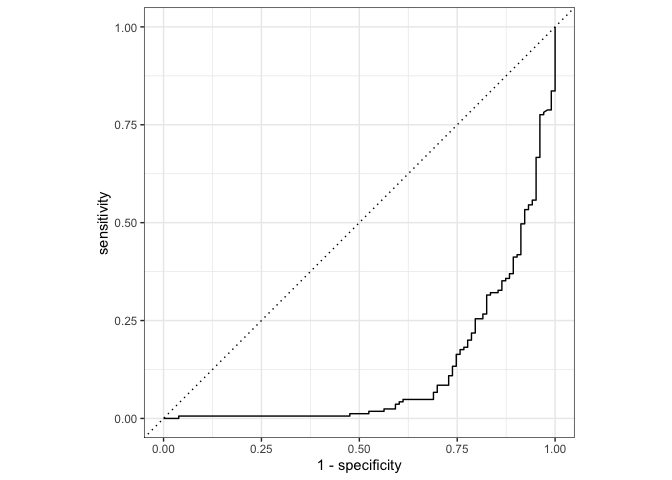
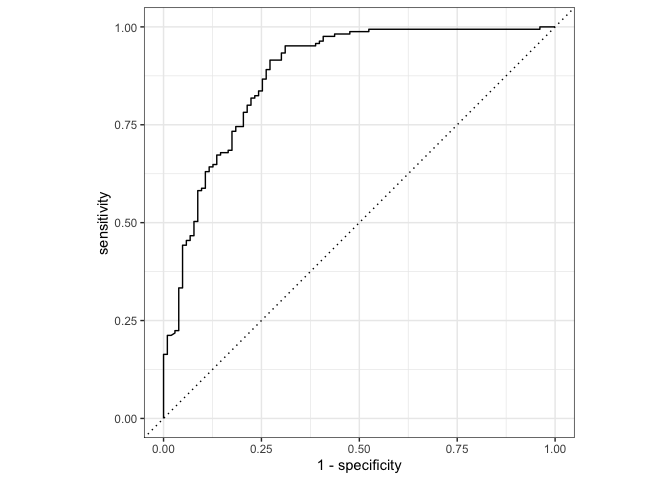
finalized

diff --git a/131_HW3.md b/131_HW3.md
@@ -276,7 +276,7 @@ augment(log_fit, new_data = titanic_test) %>%
 
 ``` r
 augment(log_fit, new_data = titanic_test) %>%
-  roc_curve(survived, .pred_Yes) %>%
+  roc_curve(survived, .pred_No) %>%
   autoplot()
 ```
 
@@ -284,4 +284,23 @@ augment(log_fit, new_data = titanic_test) %>%
 
 ``` r
 # calculate AUC
+roc <- augment(log_fit, new_data = titanic_test) %>%
+  roc(survived, .pred_No)
 ```
+
+    ## Setting levels: control = No, case = Yes
+
+    ## Setting direction: controls > cases
+
+``` r
+auc(roc)
+```
+
+    ## Area under the curve: 0.8796
+
+The model performed fairly well. The training accuracy was 0.806 while
+the test accuracy was 0.840 which interestingly represents an increase.
+The accuracy for the test may have been higher since there where fewer
+data points and they could have leant themselves well to the model. If
+the amount of data was higher in the test set, I would expect the
+accuracy to be closer to that of the training data.
